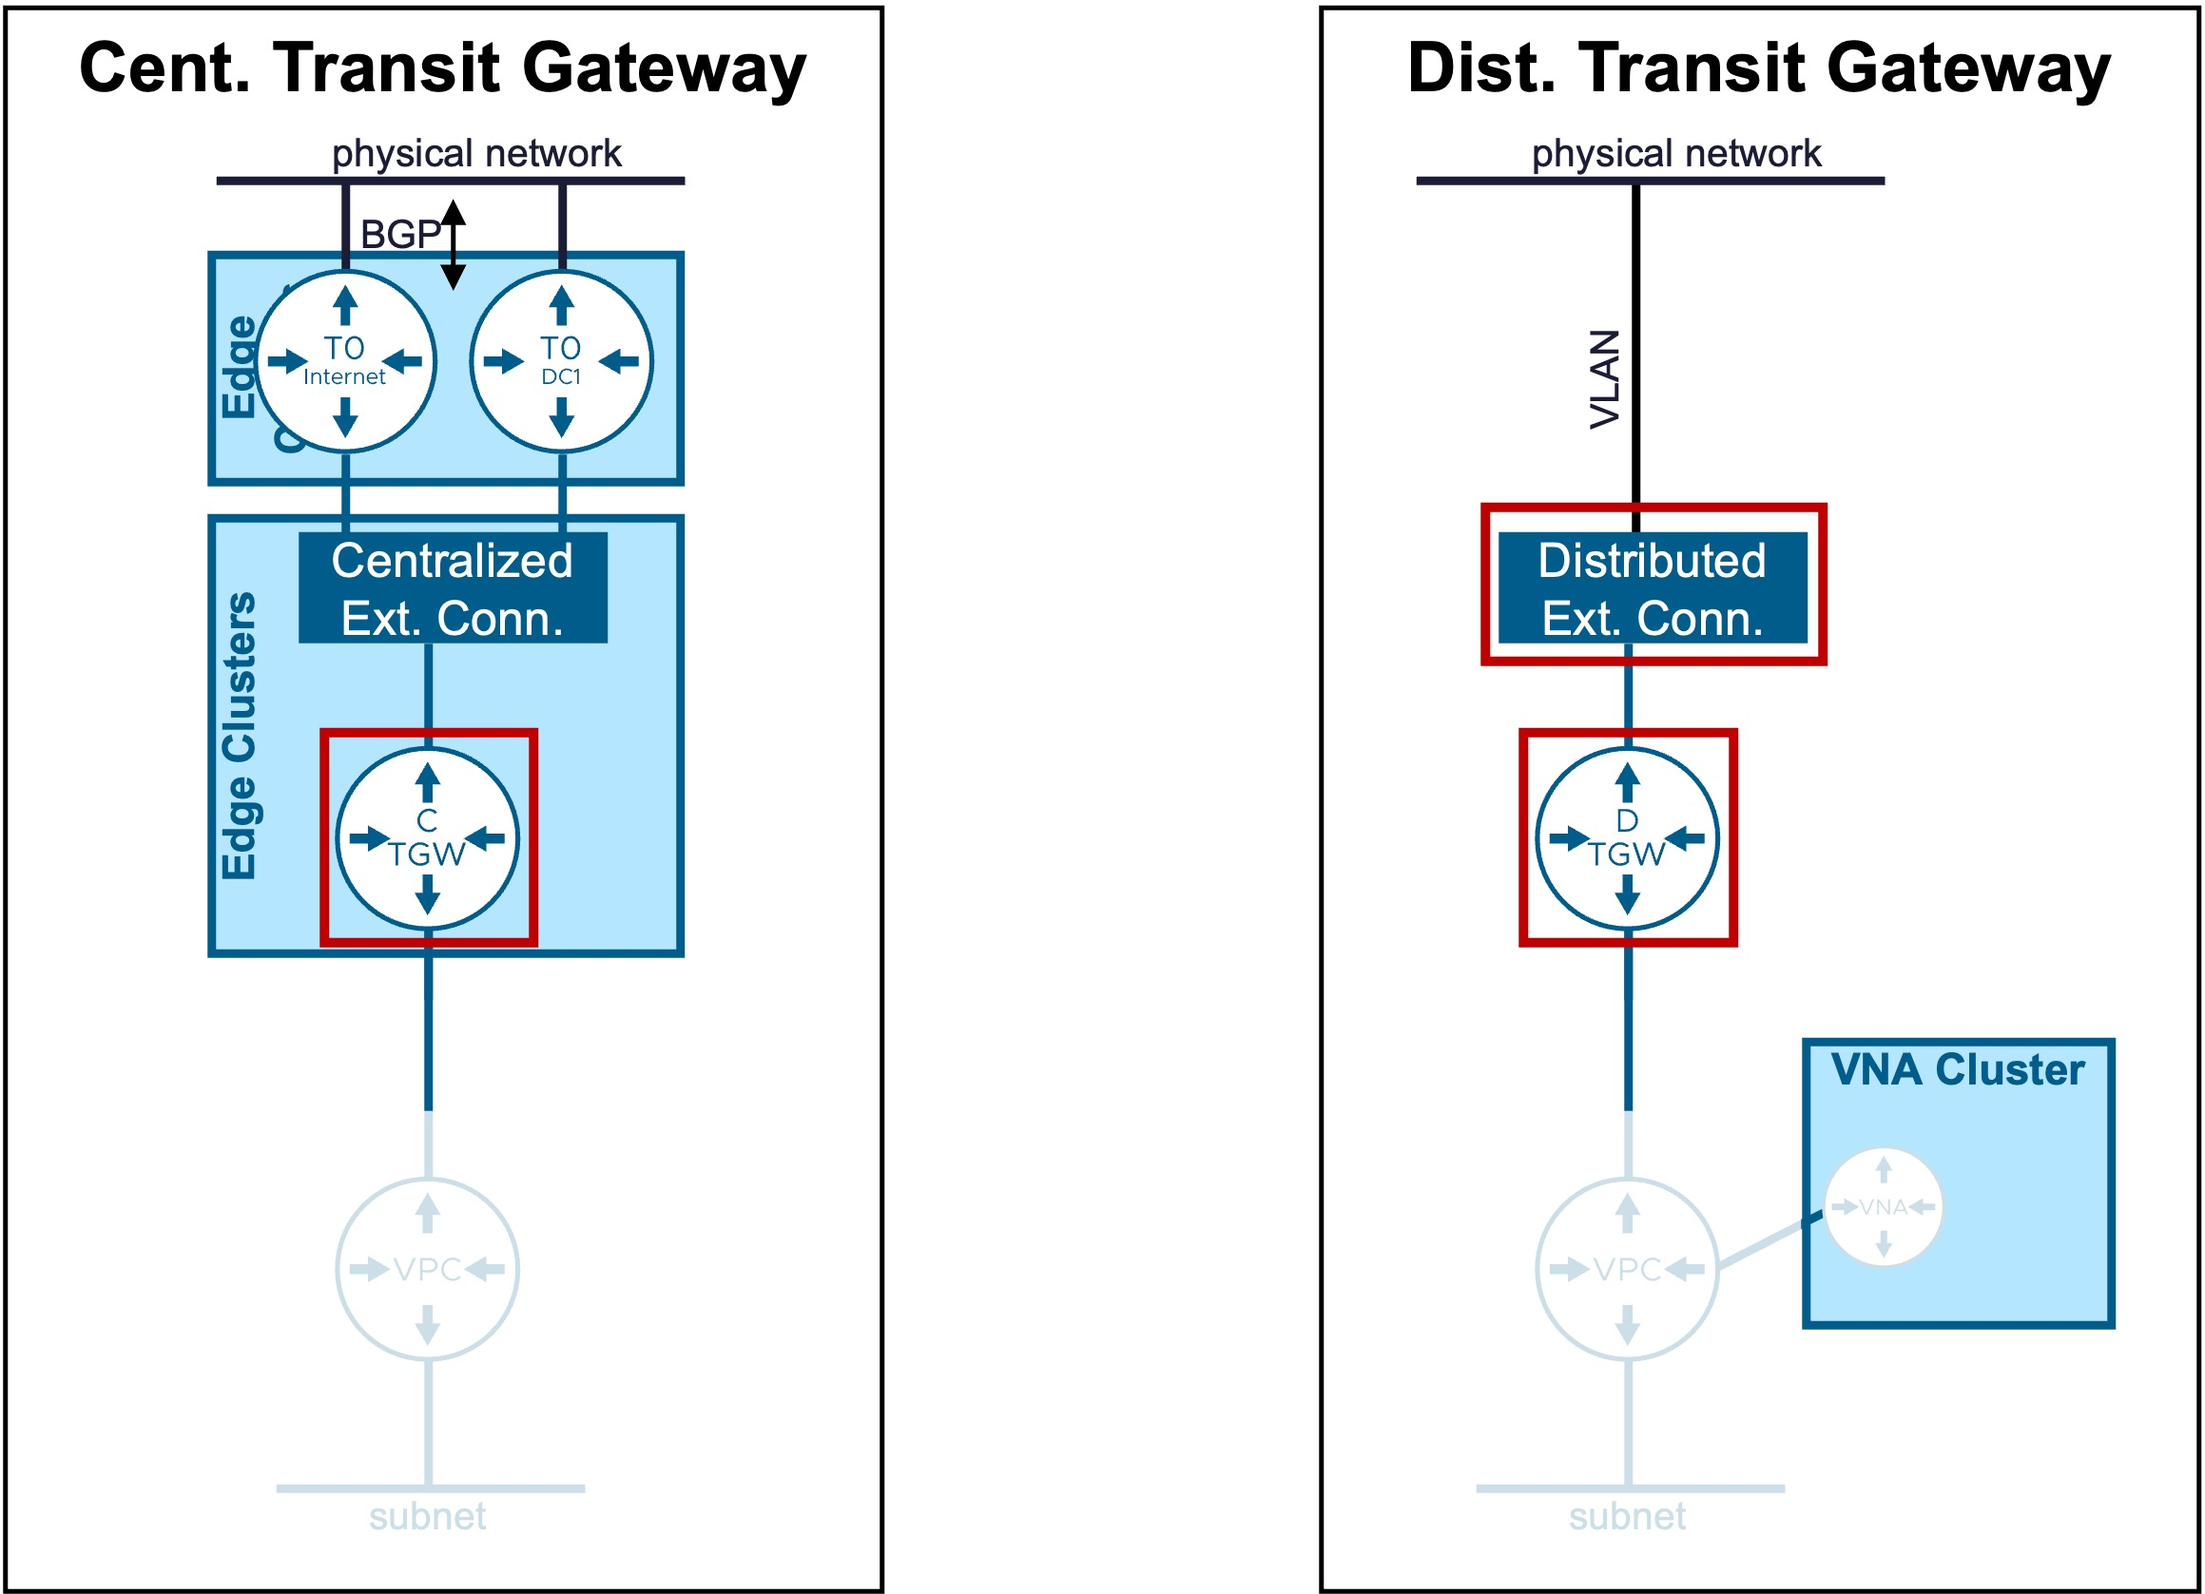
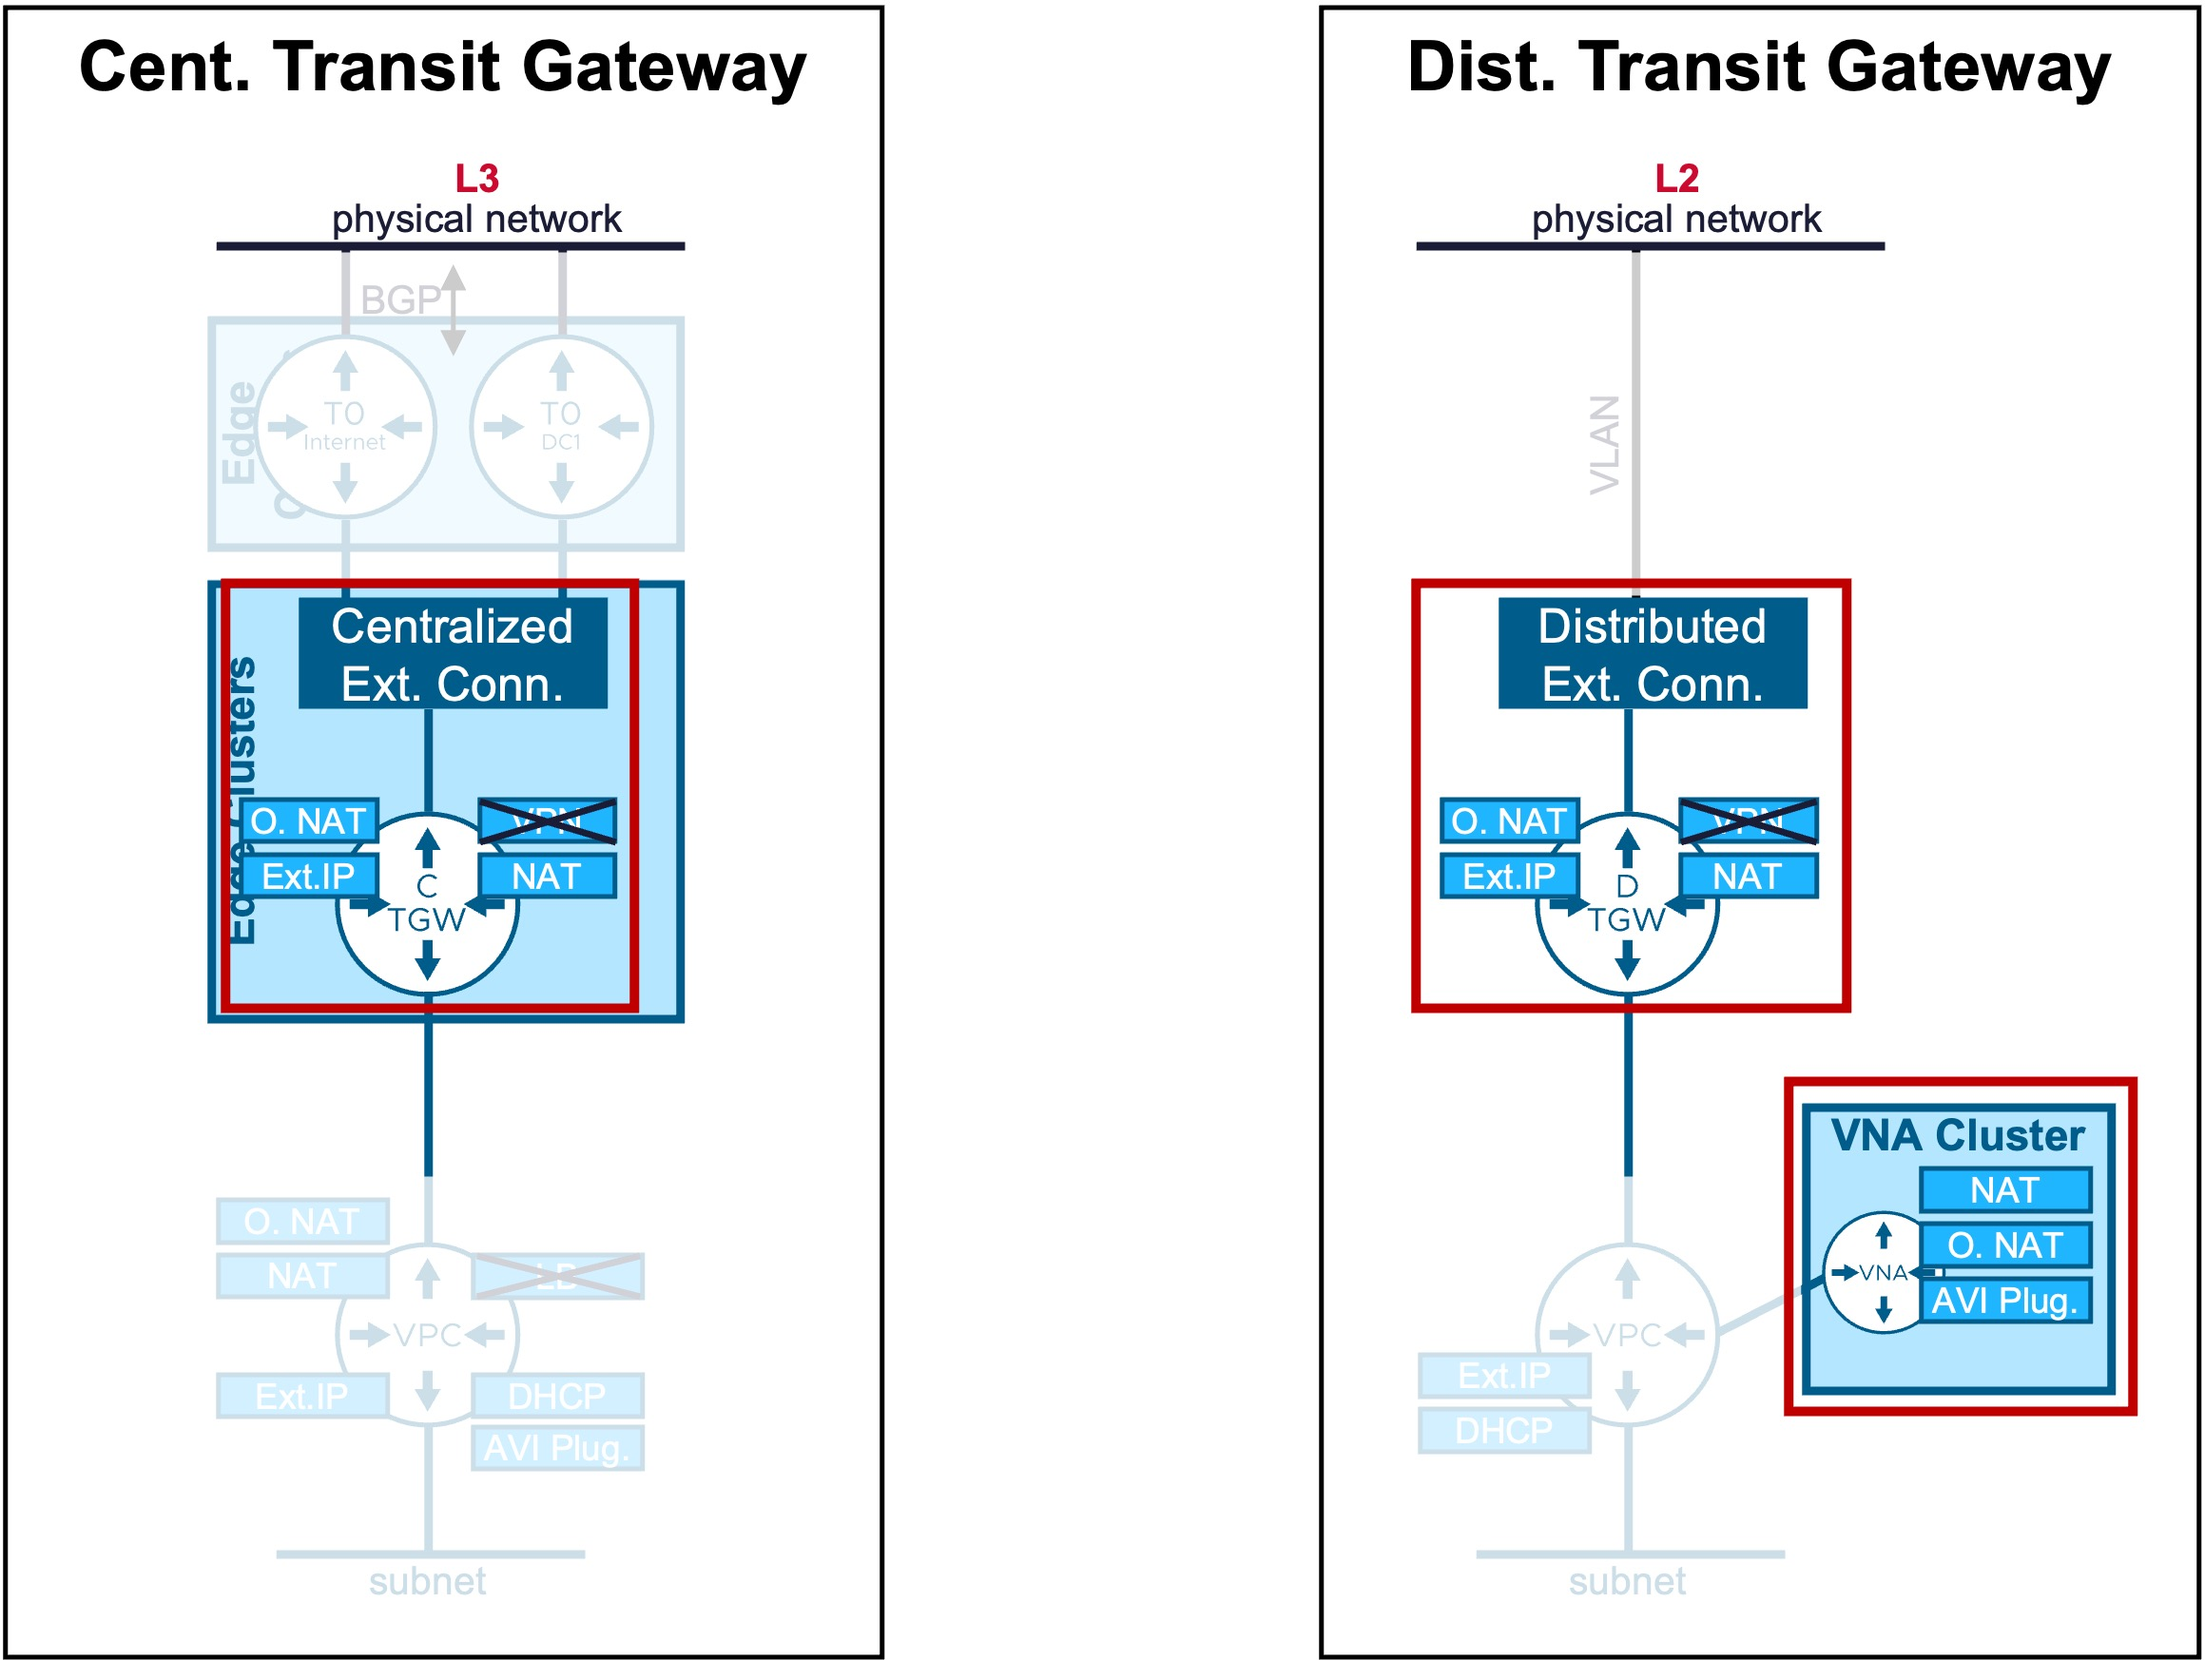
Deployed 33d79fa with MkDocs version: 1.6.1

diff --git a/vcenter/3b-transit_gateway/index.html b/vcenter/3b-transit_gateway/index.html
@@ -2186,17 +2186,17 @@
 <tbody>
 <tr>
 <td style="text-align: left;"><a href="#cent-tgw"><strong>Centralized TGW</strong></a></td>
-<td style="text-align: left;">Supports extra network stateful services (VPN).</td>
+<td style="text-align: left;">Supports L2 and L3 Fabric. Offers Stateful Network Services (Outbound-NAT and NAT).</td>
 <td style="text-align: left;">Egress traffic is hairpinned through a centralized Tier-0/VRF gateway hosted on an Edge Cluster.</td>
 </tr>
 <tr>
 <td style="text-align: left;"><a href="#dist-tgw"><strong>Distributed TGW</strong></a></td>
-<td style="text-align: left;">Optimized for high-throughput distributed routing (supports Outbound-NAT and LB via VNA Nodes).</td>
-<td style="text-align: left;">Routing occurs locally at the ESXi host level (distributed dataplane). NAT and LB traffic is redirected through a VNA Gateway in a VNA Cluster.</td>
+<td style="text-align: left;">Supports only L2 Fabric. Offers Stateful Network Services (Outbound-NAT and NAT) with VNA Nodes.</td>
+<td style="text-align: left;">Routing occurs locally at the ESXi host level (distributed dataplane). Stateful Network Services traffic is redirected through a VNA Gateway in a VNA Cluster.</td>
 </tr>
 </tbody>
 </table>
-<p><a class="glightbox" data-type="image" data-width="auto" data-height="auto" href="../images/3b-0-Transit_Gateway_Types.jpg" data-desc-position="bottom"><img alt="TGW Types" class="center" src="../images/3b-0-Transit_Gateway_Types.jpg" style="width:60%"></a></p>
+<p><a class="glightbox" data-type="image" data-width="auto" data-height="auto" href="../images/3b-0-Transit_Gateway_Types.jpg" data-desc-position="bottom"><img alt="TGW Types" class="center" src="../images/3b-0-Transit_Gateway_Types.jpg" style="width:70%"></a></p>
 <hr>
 <h2 id="cent-tgw">Centralized Transit Gateway</h2>
 <h3 id="configuration">Configuration</h3>
@@ -2274,7 +2274,6 @@
 <li>
 <p><strong>External Connection</strong>:<br>
   You can create a new or use an existing Distributed External Connection.<br>
-  Limited configuration settings are available if creating a new Distributed External Connection from here (only Tier-0 information).<br>
   For more information on External Connection, refer to the <a href="../3a-external_connection/">External Connection</a> page.</p>
 </li>
 <li>

diff --git a/vcfa/1a-transit_gateway/index.html b/vcfa/1a-transit_gateway/index.html
@@ -2186,17 +2186,17 @@
 <tbody>
 <tr>
 <td style="text-align: left;"><a href="#cent-tgw"><strong>Centralized TGW</strong></a></td>
-<td style="text-align: left;">Supports extra network stateful services (VPN).</td>
+<td style="text-align: left;">Supports L2 and L3 Fabric. Offers all Stateful Network Services (Outbound-NAT, NAT, LB, and VPN).</td>
 <td style="text-align: left;">Egress traffic is hairpinned through a centralized Tier-0/VRF gateway hosted on an Edge Cluster.</td>
 </tr>
 <tr>
 <td style="text-align: left;"><a href="#dist-tgw"><strong>Distributed TGW</strong></a></td>
-<td style="text-align: left;">Optimized for high-throughput distributed routing (supports Outbound-NAT and LB via VNA Nodes).</td>
-<td style="text-align: left;">Routing occurs locally at the ESXi host level (distributed dataplane). NAT and LB traffic is redirected through a VNA Gateway in a VNA Cluster.</td>
+<td style="text-align: left;">Supports only L2 Fabric. Offers Stateful Network Services (Outbound-NAT, NAT, and LB) with VNA Nodes.</td>
+<td style="text-align: left;">Routing occurs locally at the ESXi host level (distributed dataplane). Stateful Network Services traffic is redirected through a VNA Gateway in a VNA Cluster.</td>
 </tr>
 </tbody>
 </table>
-<p><a class="glightbox" data-type="image" data-width="auto" data-height="auto" href="images/3b-0-Transit_Gateway_Types.jpg" data-desc-position="bottom"><img alt="TGW Types" class="center" src="images/3b-0-Transit_Gateway_Types.jpg" style="width:60%"></a></p>
+<p><a class="glightbox" data-type="image" data-width="auto" data-height="auto" href="../images/1a-0-Transit_Gateway_Types.jpg" data-desc-position="bottom"><img alt="TGW Types" class="center" src="../images/1a-0-Transit_Gateway_Types.jpg" style="width:70%"></a></p>
 <hr>
 <h2 id="cent-tgw">Centralized Transit Gateway</h2>
 <h3 id="configuration">Configuration</h3>
@@ -2294,7 +2294,7 @@
 <li>
 <p><strong>Virtual Network Appliance Cluster</strong>:<br>
   Select the VNA Cluster to host the VNA Gateway.<br>
-  For more information on VNA, refer to the <a href="2b-vna.md">VNA</a> page.</p>
+  For more information on VNA, refer to the <a href="../3b-vna/">VNA</a> page.</p>
 </li>
 <li>
 <p><strong>Default Outbound NAT</strong><br>
